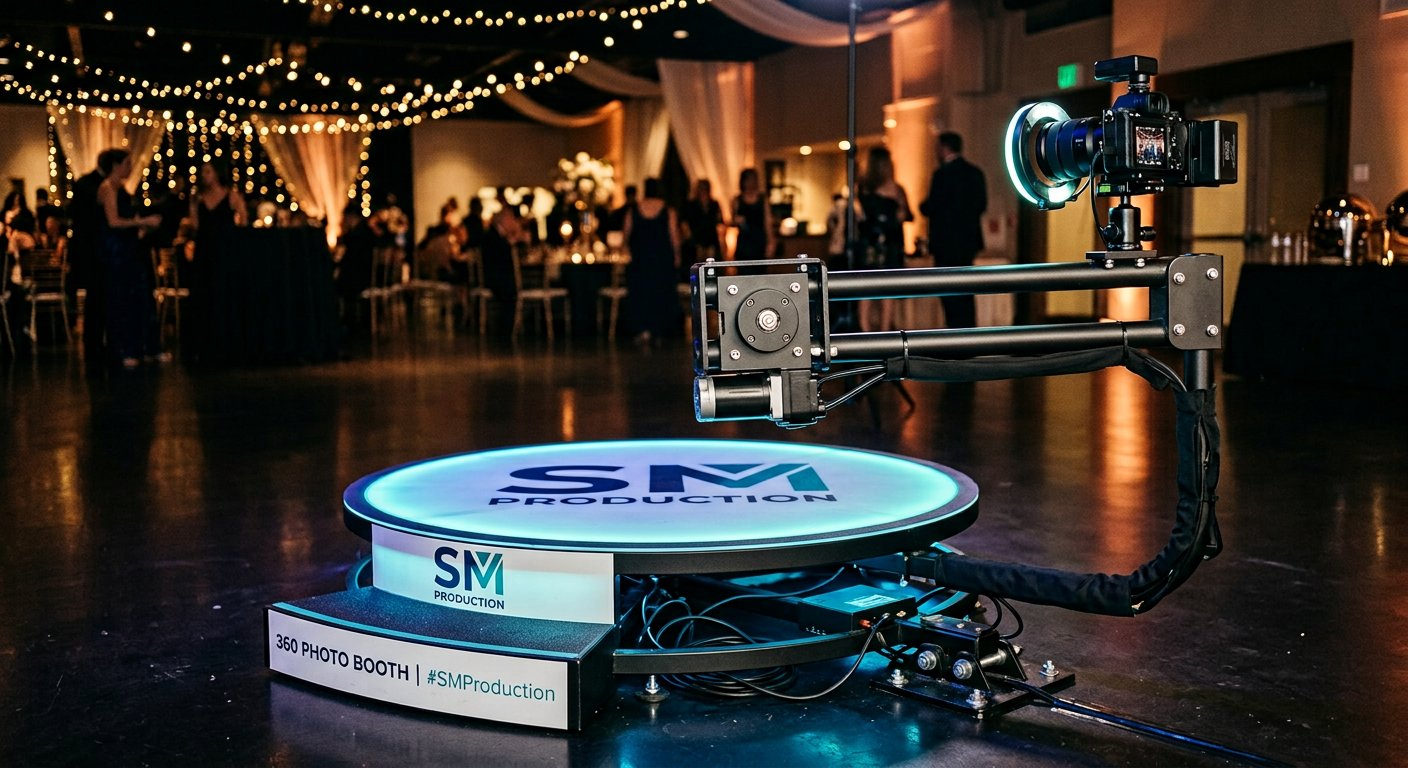
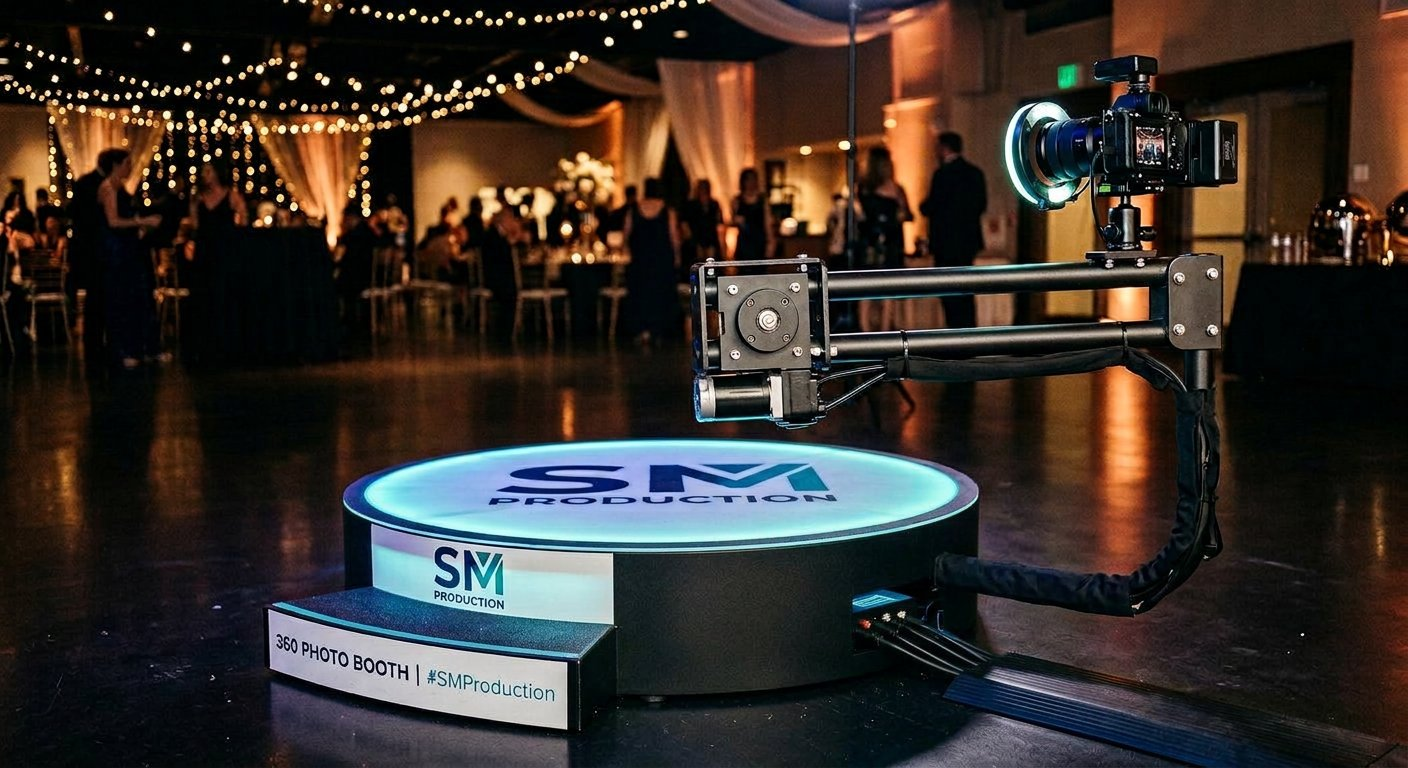
Фотобудки: убрать колёса, уличную точку поставить под шатёр с безопасным питанием

diff --git a/visualizations/photobooth/README.md b/visualizations/photobooth/README.md
@@ -9,4 +9,4 @@
 | `viz-360-gala.jpg` | 360-платформа, вечерний зал | Если 360 есть в парке |
 | `viz-open-festival.jpg` | Открытый киоск, фестиваль | Английские надписи, на сайт SM слабее |
 
-Подпись на Тильде: «пример оформления».
+Кабины **без колёс** (опоры / ровная посадка). Улица — только под шатром, кабель в кабель-канале, ввод в герметичную коробку, без удлинителя на полу.
